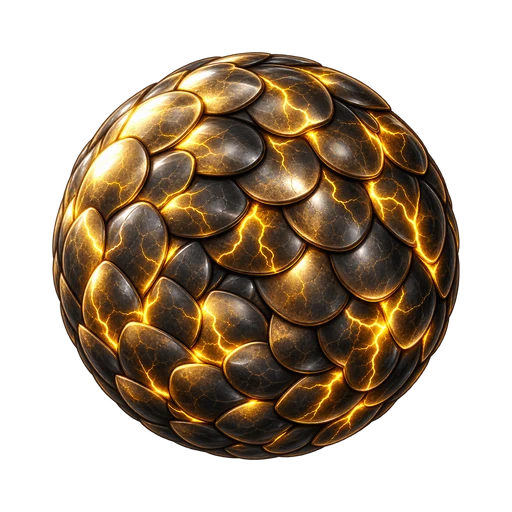
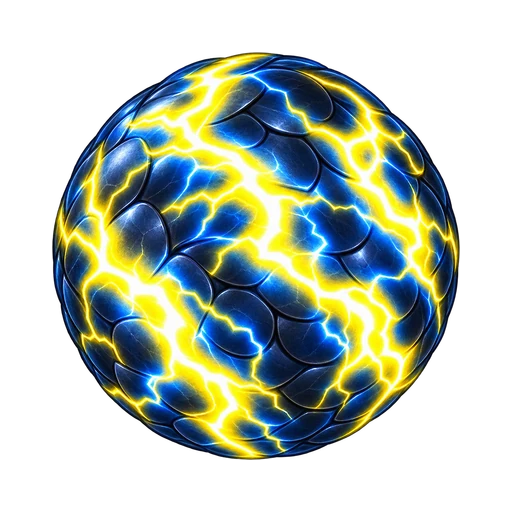
Make lightning dominant and add easy-unlock basketball skin

diff --git a/index.html b/index.html
@@ -1754,6 +1754,22 @@ const SKINS_DEF=[
      cx.restore();
    },
    previewCss:'radial-gradient(circle at 35% 30%,#ffffff 0%,#eef2f5 48%,#cfd6dc 100%)'},
+  {id:'basketboll', emoji:'🏀', name:'Basketboll', nameEn:'Basketball',
+   free:false, unlockMedal:'c5',
+   descSv:'Lås upp: 5 rätt i rad', descEn:'Unlock: 5 correct in a row',
+   headA:'#ffb14d', headB:'#b84309', shadow:'#ff923d',
+   bodyFn:(a)=>`rgba(235,${Math.floor(100+a*40)},24,${Math.min(1,a+.05)})`,
+   overlayFn:(cx,px,py,s,i,a)=>{
+     cx.strokeStyle=`rgba(35,18,9,${0.65+a*0.25})`;
+     cx.lineWidth=s*.065;cx.lineCap='round';
+     cx.beginPath();
+     cx.moveTo(px+s*.5,py);cx.lineTo(px+s*.5,py+s);
+     cx.moveTo(px,py+s*.5);cx.lineTo(px+s,py+s*.5);
+     cx.moveTo(px+s*.08,py);cx.bezierCurveTo(px+s*.62,py+s*.22,px+s*.62,py+s*.78,px+s*.08,py+s);
+     cx.moveTo(px+s*.92,py);cx.bezierCurveTo(px+s*.38,py+s*.22,px+s*.38,py+s*.78,px+s*.92,py+s);
+     cx.stroke();
+   },
+   previewCss:'radial-gradient(circle at 35% 30%,#ffb14d,#ed7a20 55%,#b84309)'},
   {id:'hund', emoji:'🐶', name:'Hund', nameEn:'Dog',
    free:false, unlockMedal:'mul10000',
    descSv:'Lås upp: Tabellmästare-medaljen', descEn:'Unlock: Table Master medal',
@@ -2595,6 +2611,7 @@ const MODERN_BASIC_ASSETS=Object.freeze({
   jordgubbe:{headAsset:'skins/modern-strawberry-head-base.webp',bodyAsset:'skins/modern-strawberry-body-straight.webp',tailAsset:'skins/modern-strawberry-tail.webp'},
   vattenmelon:{headAsset:'skins/modern-watermelon-head-base.webp',bodyAsset:'skins/modern-watermelon-body-straight.webp',tailAsset:'skins/modern-watermelon-tail.webp'},
   fotboll:{headAsset:'skins/modern-football-head-base.webp',bodyAsset:'skins/modern-football-body-straight.webp',tailAsset:'skins/modern-football-tail.webp'},
+  basketboll:{headAsset:'skins/modern-basketball-head-base.webp',bodyAsset:'skins/modern-basketball-body-straight.webp',tailAsset:'skins/modern-basketball-tail.webp',headAssetScale:1.5,assetAlternateMirror:true,assetShadowBlur:5,assetBodyShadowBlur:3,tailAssetOffset:1.03},
   polkagris:{headAsset:'skins/modern-candy-cane-head-base.webp',bodyAsset:'skins/modern-candy-cane-body-straight.webp',tailAsset:'skins/modern-candy-cane-tail.webp'},
   galax:{headAsset:'skins/modern-galaxy-head-base.webp',bodyAsset:'skins/modern-galaxy-body-straight.webp',tailAsset:'skins/modern-galaxy-tail.webp',galaxyTwinkles:true,assetAlternateMirror:true,assetShadowBlur:8,assetBodyShadowBlur:5},
   obsidian:{headAsset:'skins/modern-obsidian-head-base.webp',bodyAsset:'skins/modern-obsidian-body-straight.webp',tailAsset:'skins/modern-obsidian-tail.webp',magmaPulse:true,assetShadowBlur:8,assetBodyShadowBlur:5},
@@ -2614,7 +2631,7 @@ const MODERN_BASIC_ASSETS=Object.freeze({
   skuggmysterium:{headAsset:'skins/modern-shadow-mystery-head-base.webp',bodyAsset:'skins/modern-shadow-mystery-body-straight.webp',tailAsset:'skins/modern-shadow-mystery-tail.webp',headAssetScale:1.5,assetAlternateMirror:true,assetShadowBlur:7,assetBodyShadowBlur:4,tailAssetOffset:1.03},
   smaragd:{headAsset:'skins/modern-emerald-head-base.webp',bodyAsset:'skins/modern-emerald-body-straight.webp',tailAsset:'skins/modern-emerald-tail.webp',headAssetScale:1.5,assetAlternateMirror:true,assetShadowBlur:8,assetBodyShadowBlur:5,tailAssetOffset:1.03},
   tidvatten:{headAsset:'skins/modern-tideglass-head-base.webp',bodyAsset:'skins/modern-tideglass-body-straight.webp',tailAsset:'skins/modern-tideglass-tail.webp',headAssetScale:1.5,assetAlternateMirror:true,assetShadowBlur:7,assetBodyShadowBlur:4,tailAssetOffset:1.03},
-  inferno:{headAsset:'skins/modern-lightning-head-base.webp',bodyAsset:'skins/modern-lightning-body-straight.webp',tailAsset:'skins/modern-lightning-tail.webp',headAssetScale:1.5,assetAlternateMirror:true,assetShadowBlur:7,assetBodyShadowBlur:4,tailAssetOffset:1.03}
+  inferno:{headAsset:'skins/modern-lightning-head-base.webp?v=2',bodyAsset:'skins/modern-lightning-body-straight.webp?v=2',tailAsset:'skins/modern-lightning-tail.webp?v=2',headAssetScale:1.5,assetAlternateMirror:true,assetShadowBlur:7,assetBodyShadowBlur:4,tailAssetOffset:1.03}
 });
 const MODERN_EYES_OPEN_ASSET='skins/modern-basic-eyes-open.webp';
 const MODERN_EYES_BLINK_ASSET='skins/modern-basic-eyes-blink.webp';
@@ -2694,6 +2711,7 @@ const SKIN_I18N_DE={
   stjarnhimmel:{name:'Sternenhimmel',desc:'Freischalten: 75er-Serie'},
   ghost:{name:'Geist',desc:'Freischalten: Medaille „Mythische Schlange“ (Länge 100)'},
   fotboll:{name:'Fussball',desc:'Freischalten: 100 Spiele spielen'},
+  basketboll:{name:'Basketball',desc:'Freischalten: 5 richtige Antworten in Folge'},
   hund:{name:'Hund',desc:'Freischalten: Medaille „Tabellenmeister“'},
   katt:{name:'Katze',desc:'Freischalten: Medaille „Additionsmeister“'},
   jordgubbe:{name:'Erdbeere',desc:'Freischalten: Medaille „Subtraktionsmeister“'},
@@ -2717,6 +2735,7 @@ const SKIN_THEMES={
   'isbla':    {bgA:'#03070f',bgB:'#020510',gridColor:'rgba(80,160,255,.04)', particles:'snow',  headAcc:null},
   'miamisunset': {bgA:'#13021e',bgB:'#050714',gridColor:'rgba(255,110,190,.05)',particles:'stars', headAcc:null},
   'fotboll':  {bgA:'#0a1014',bgB:'#04080b',gridColor:'rgba(255,255,255,.035)',particles:'stars', headAcc:null},
+  'basketboll':{bgA:'#160a03',bgB:'#080401',gridColor:'rgba(255,147,60,.035)',particles:'stars',headAcc:null},
   'rosa':     {bgA:'#0f0308',bgB:'#0a0206',gridColor:'rgba(255,80,160,.04)', particles:'hearts',headAcc:null},
   'lila':     {bgA:'#07030f',bgB:'#04020a',gridColor:'rgba(140,60,255,.04)', particles:'stars', headAcc:null},
   'regnbage': {bgA:'#050508',bgB:'#030308',gridColor:'rgba(180,130,255,.04)',particles:'rainbow',headAcc:null},

diff --git a/CHANGELOG.md b/CHANGELOG.md
@@ -2,6 +2,12 @@
 
 ## 2026-10-01
 
+### Basketboll och tydligare Blixt
+- Nytt Basketboll-skin med orange bollstruktur och tydliga svarta sömmar, både i klassiskt och modernt grafikläge.
+- Basketboll låses upp med den befintliga medaljen ”Hetsar på!”: 5 rätt i rad. Spelare som redan har medaljen får skinnet automatiskt.
+- Blixt omgjort med stora gulvita förgrenade blixtar över en mörk bas på huvud, kropp och svans; fjällen är nu underordnade blixttemat.
+- Alla nya runtimebilder är transparenta WebP i 512 × 512. Blixtbildernas cacheversion har höjts.
+
 ### Moderna skins: Tidvatten och Blixt
 - `skins/modern-tideglass-*.webp`
   - turkosa havsglasfjäll med pärlemorskimrande vattenreflexer och mörk petrolkant
